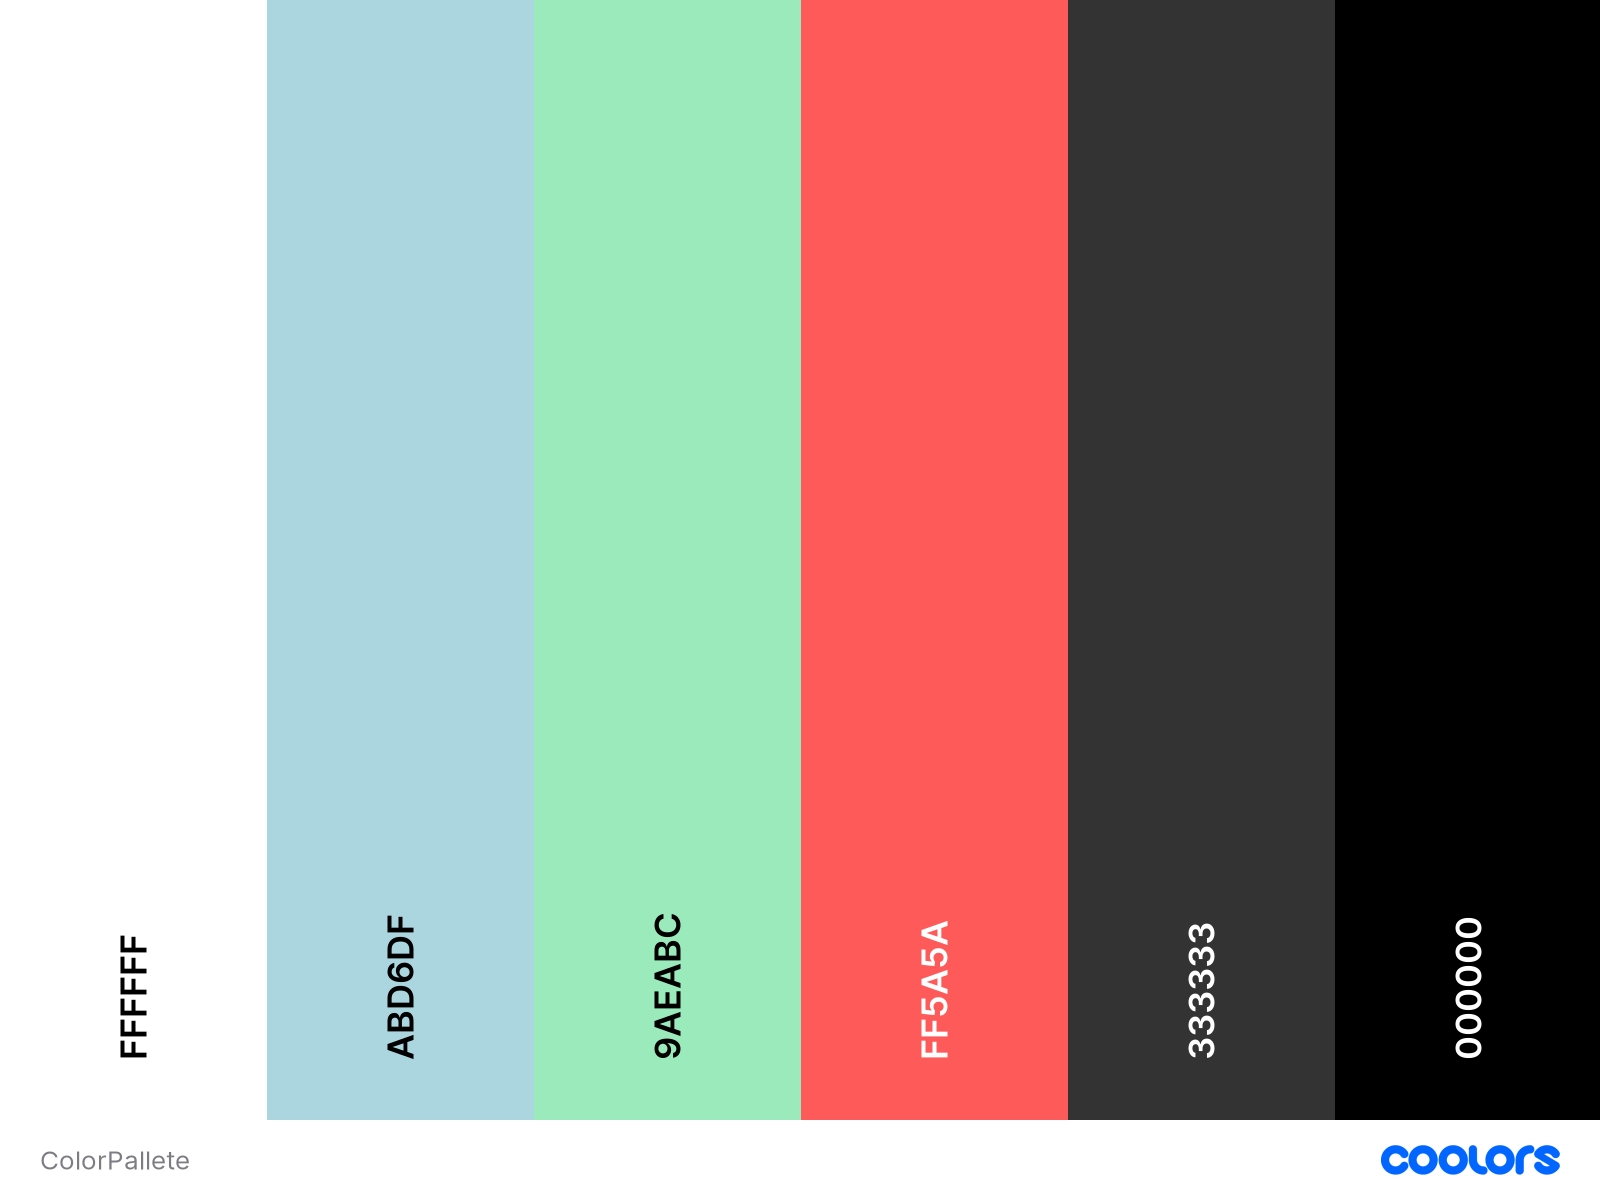
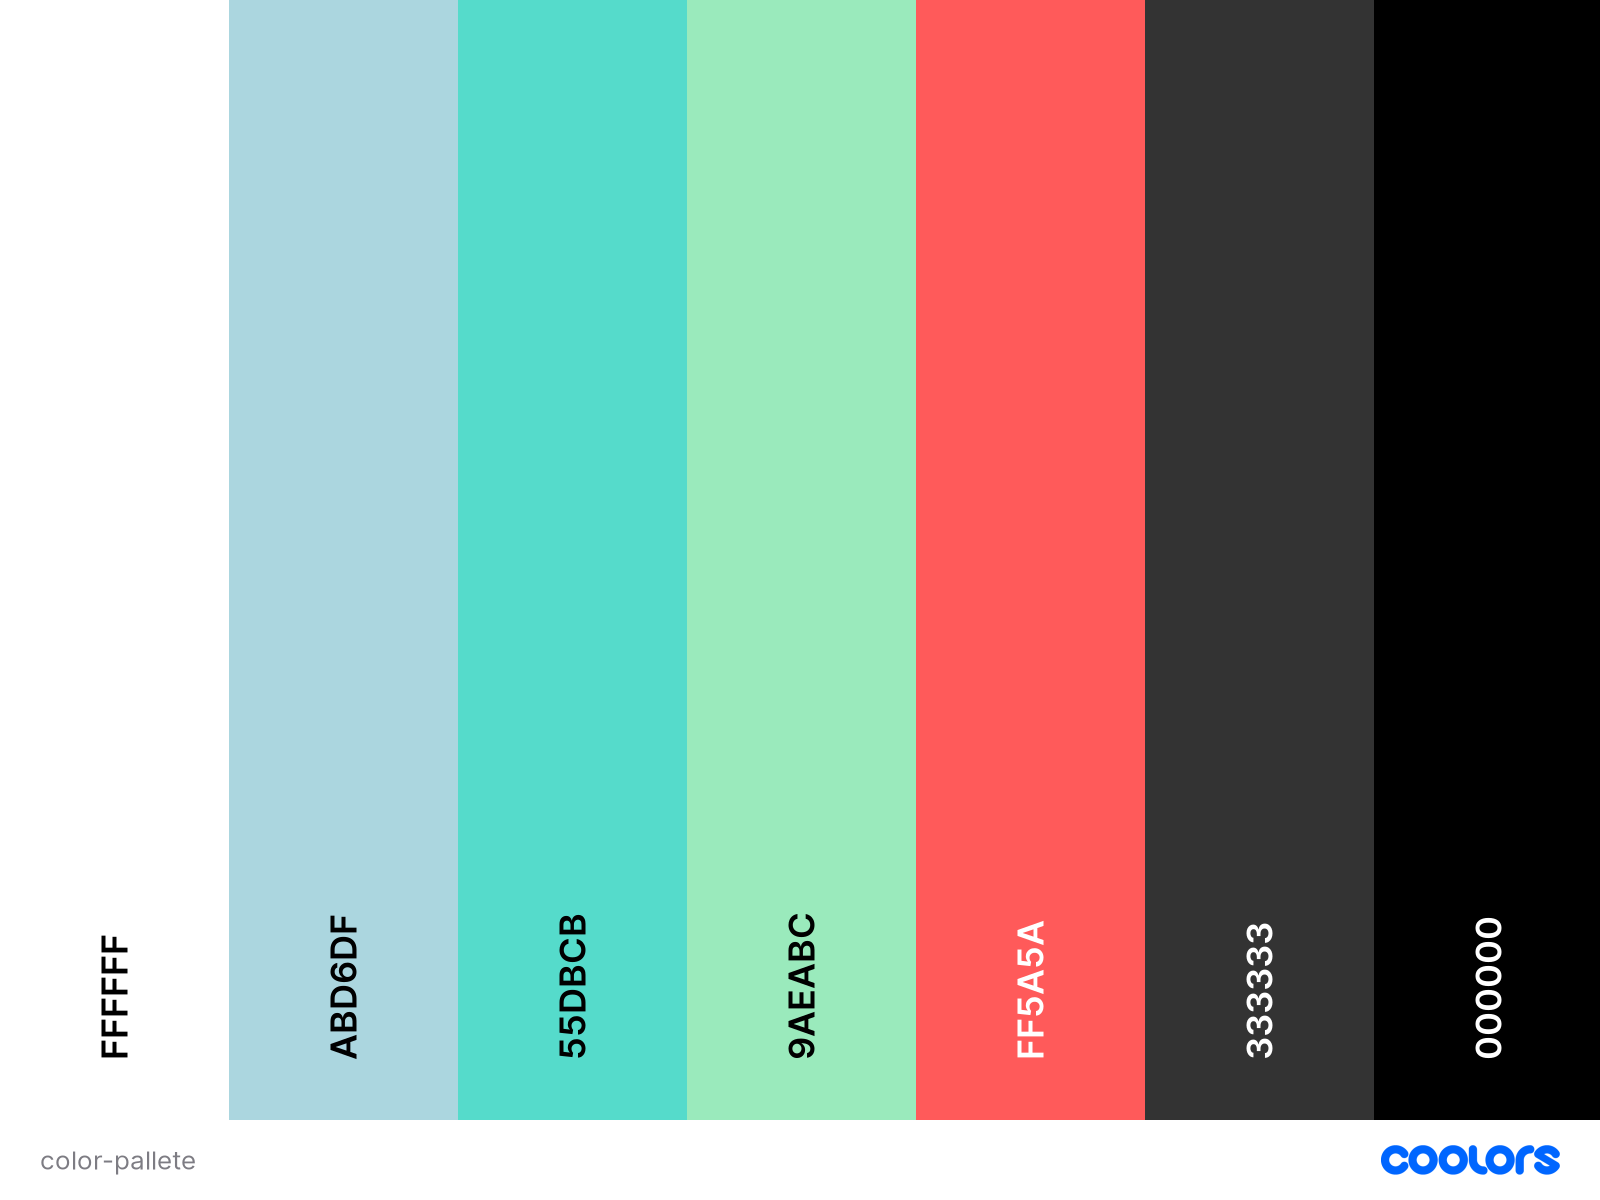
Add images for features and updated color pallete image in the readme file

diff --git a/README.md b/README.md
@@ -66,6 +66,8 @@ This game was developed to challange your knowledge with fun fact about Christma
 [Back to top](<#contents>)
 
   - ### Site Structure
+
+    The QuizTmas game was structured in HTML in 3 different pages: [**Play**], [**Rules**] and [**Contact**]. All the styling was developed in CSS and the logic in vanilla JavaScript. Its a combinations of a memory game template but instead of pictures when a card is clicked you trigger a question quiz, which makes more exciting when playing bacause you can get to pick easy questions or really difficult ones. The effects and transitions combined with modal popup engine makes the whole experience more pleasant and a feeling of well built.
     
 
 [Back to top](<#contents>)
@@ -92,30 +94,52 @@ This game was developed to challange your knowledge with fun fact about Christma
 
   ### Play Section
 
-  ![Alt text]( "Hero Section") 
+  ![Alt text](./assets/images/play-page.png"Hero Section") 
 
 [Back to top](<#contents>)
 
-  ### Rules
+  ### Modal PopUp
+
+  ![Alt text](./assets/images/modal-popup.png "Modal Popup") 
   
+[Back to top](<#contents>)
         
-  ![Alt text]( "About Us Section")
+  ### Answers Buttons
+
+  ![Alt text](./assets/images/answer-buttons.png "Answer Buttons") 
 
 [Back to top](<#contents>)
 
-  ### Contact Us
+  ### Times Up Alert
 
-  ![Alt text]( "Our Community Section") 
-
-[Back to top](<#contents>)
-
-
-  ### Footer
+  ![Alt text](./assets/images/alert-timesup.png "Alert Times Up") 
  
-
-  ![Alt text]( "Footer")
-
 [Back to top](<#contents>)
+
+  ### Hidden Cards
+
+  ![Alt text](./assets/images/hidden-cards.png "Hidden Cards") 
+ 
+[Back to top](<#contents>)
+
+  ### Game Over Message
+
+  ![Alt text](./assets/images/game-over-message.png "Game Over Message") 
+ 
+[Back to top](<#contents>)
+
+  ### Rules Page
+
+  ![Alt text](./assets/images/rules-page.png "Rules Page") 
+ 
+[Back to top](<#contents>)
+
+  ### Contact Page
+
+  ![Alt text](./assets/images/contact-page.png "Contact Page") 
+ 
+[Back to top](<#contents>)
+
 
   ### Future Features
 
@@ -124,7 +148,7 @@ This game was developed to challange your knowledge with fun fact about Christma
 
 ## Testing
 
-- Tested in differents mobile devices and chrome web browser
+- Tested in differents mobile devices and web browsers
 - Tested using the [**CCS validador**](https://www.w3.org/)
 - Tested using the [**HTML validator**](https://validator.w3.org/nu/)
 - Tested using the [**JsHint Validator**](https://jshint.com/)
